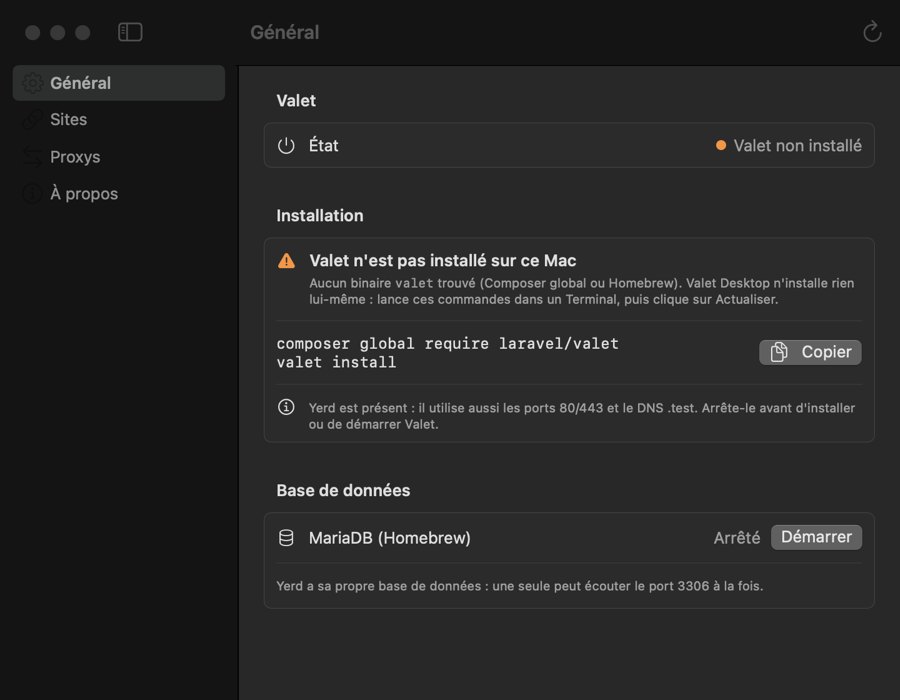
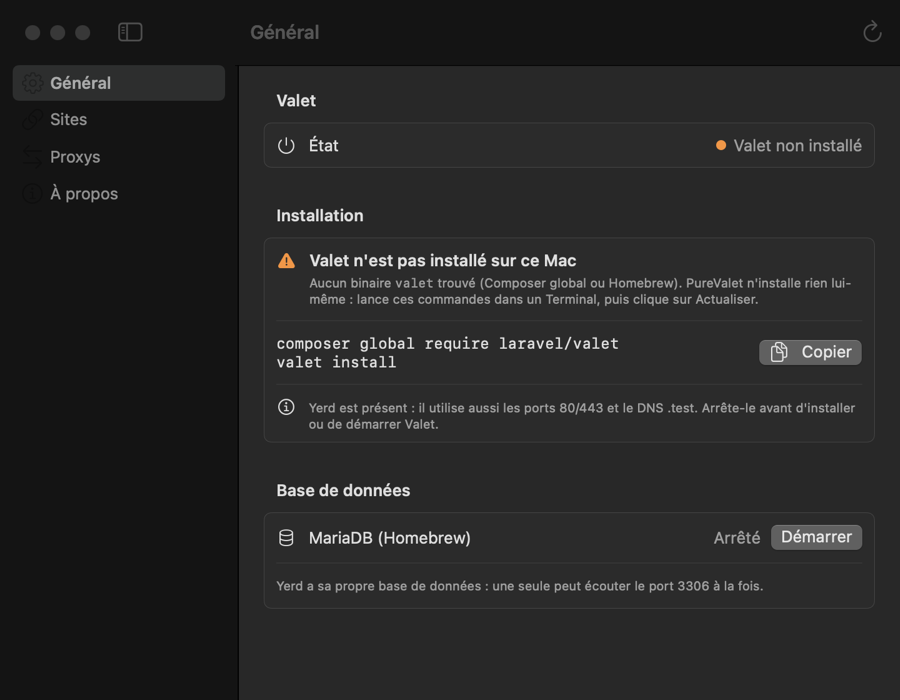
Rename the app to PureValet (0.3.0)
App bundle PureValet.app, bundle identifier dev.aubin.purevalet,
DMG PureValet-x.y.z.dmg, SwiftPM target PureValet, repository
aubinvan/purevalet. Docs and screenshot updated.

Changed region(s): [[0.3422, 0.39, 0.9644, 0.45]]

diff --git a/Sources/PureValet/SettingsWindow.swift b/Sources/PureValet/SettingsWindow.swift
@@ -56,7 +56,7 @@ final class SettingsWindowController: NSObject, NSWindowDelegate {
             backing: .buffered,
             defer: false
         )
-        window.title = "Valet Desktop"
+        window.title = "PureValet"
         window.titleVisibility = .visible
         window.toolbarStyle = .unified
         window.isReleasedWhenClosed = false
@@ -237,7 +237,7 @@ struct NotInstalledSection: View {
             Label {
                 VStack(alignment: .leading, spacing: 4) {
                     Text("Valet n'est pas installé sur ce Mac").bold()
-                    Text("Aucun binaire `valet` trouvé (Composer global ou Homebrew). Valet Desktop n'installe rien lui-même : lance ces commandes dans un Terminal, puis clique sur Actualiser.")
+                    Text("Aucun binaire `valet` trouvé (Composer global ou Homebrew). PureValet n'installe rien lui-même : lance ces commandes dans un Terminal, puis clique sur Actualiser.")
                         .settingsCaption()
                 }
             } icon: {
@@ -447,7 +447,7 @@ struct AboutPane: View {
                         .resizable()
                         .frame(width: 64, height: 64)
                     VStack(alignment: .leading, spacing: 2) {
-                        Text("Valet Desktop").font(.title2.bold())
+                        Text("PureValet").font(.title2.bold())
                         Text("Laravel Valet dans la barre de menus").settingsCaption()
                     }
                 }
@@ -461,14 +461,14 @@ struct AboutPane: View {
                     Label("Version", systemImage: "info.circle")
                 }
                 HStack {
-                    Label("Valet Desktop est open source (MIT)", systemImage: "chevron.left.forwardslash.chevron.right")
+                    Label("PureValet est open source (MIT)", systemImage: "chevron.left.forwardslash.chevron.right")
                     Spacer()
-                    Link("Voir sur GitHub", destination: URL(string: "https://github.com/aubinvan/valet-desktop")!)
+                    Link("Voir sur GitHub", destination: URL(string: "https://github.com/aubinvan/purevalet")!)
                 }
                 HStack {
                     Label("Nouvelles versions", systemImage: "arrow.down.circle")
                     Spacer()
-                    Link("Releases", destination: URL(string: "https://github.com/aubinvan/valet-desktop/releases")!)
+                    Link("Releases", destination: URL(string: "https://github.com/aubinvan/purevalet/releases")!)
                 }
             }
 

diff --git a/Sources/PureValet/Shell.swift b/Sources/PureValet/Shell.swift
@@ -32,11 +32,11 @@ enum Shell {
 
     /// Script askpass écrit dans le dossier temporaire au premier besoin.
     static let askpassPath: String = {
-        let url = URL(fileURLWithPath: NSTemporaryDirectory()).appendingPathComponent("valet-desktop-askpass.sh")
+        let url = URL(fileURLWithPath: NSTemporaryDirectory()).appendingPathComponent("purevalet-askpass.sh")
         let script = """
         #!/bin/sh
         exec /usr/bin/osascript \\
-          -e 'set r to display dialog "Valet a besoin des droits administrateur (sudo).\\n\\nMot de passe macOS :" default answer "" with hidden answer with title "Valet Desktop" with icon caution buttons {"Annuler", "OK"} default button "OK" cancel button "Annuler"' \\
+          -e 'set r to display dialog "Valet a besoin des droits administrateur (sudo).\\n\\nMot de passe macOS :" default answer "" with hidden answer with title "PureValet" with icon caution buttons {"Annuler", "OK"} default button "OK" cancel button "Annuler"' \\
           -e 'text returned of r'
         """
         try? script.write(to: url, atomically: true, encoding: .utf8)

diff --git a/Package.swift b/Package.swift
@@ -2,17 +2,17 @@
 import PackageDescription
 
 let package = Package(
-    name: "ValetDesktop",
+    name: "PureValet",
     platforms: [.macOS(.v14)],
     targets: [
         .executableTarget(
-            name: "ValetDesktop",
-            path: "Sources/ValetDesktop"
+            name: "PureValet",
+            path: "Sources/PureValet"
         ),
         .testTarget(
-            name: "ValetDesktopTests",
-            dependencies: ["ValetDesktop"],
-            path: "Tests/ValetDesktopTests"
+            name: "PureValetTests",
+            dependencies: ["PureValet"],
+            path: "Tests/PureValetTests"
         ),
     ]
 )

diff --git a/Sources/PureValet/App.swift b/Sources/PureValet/App.swift
@@ -2,11 +2,11 @@ import AppKit
 import SwiftUI
 
 @main
-struct ValetDesktopApp: App {
+struct PureValetApp: App {
     @State private var model = ValetModel()
 
     init() {
-        // `ValetDesktop --snapshot <dossier>` : capture la fenêtre de réglages (un PNG par onglet) puis quitte.
+        // `PureValet --snapshot <dossier>` : capture la fenêtre de réglages (un PNG par onglet) puis quitte.
         let args = CommandLine.arguments
         if let i = args.firstIndex(of: "--snapshot"), i + 1 < args.count {
             Snapshot.render(into: URL(fileURLWithPath: args[i + 1]))

diff --git a/Sources/PureValet/MenuContent.swift b/Sources/PureValet/MenuContent.swift
@@ -74,7 +74,7 @@ struct MenuContent: View {
 
         Divider()
 
-        Button("Quitter Valet Desktop") { NSApp.terminate(nil) }
+        Button("Quitter PureValet") { NSApp.terminate(nil) }
             .keyboardShortcut("q")
     }
 }

diff --git a/Tests/PureValetTests/ParsingTests.swift b/Tests/PureValetTests/ParsingTests.swift
@@ -1,5 +1,5 @@
 import XCTest
-@testable import ValetDesktop
+@testable import PureValet
 
 final class ParsingTests: XCTestCase {
     func testParsesValetLinksTable() {

diff --git a/README.md b/README.md
@@ -1,8 +1,8 @@
 <p align="center">
-  <img src="docs/icon.png" width="128" alt="Valet Desktop icon">
+  <img src="docs/icon.png" width="128" alt="PureValet icon">
 </p>
 
-<h1 align="center">Valet Desktop</h1>
+<h1 align="center">PureValet</h1>
 
 <p align="center">
   A tiny native macOS menu bar app to drive <a href="https://laravel.com/docs/valet">Laravel Valet</a> without the terminal.<br>
@@ -10,24 +10,24 @@
 </p>
 
 <p align="center">
-  <a href="https://github.com/aubinvan/valet-desktop/releases/latest"><img src="https://img.shields.io/github/v/release/aubinvan/valet-desktop" alt="Latest release"></a>
-  <a href="https://github.com/aubinvan/valet-desktop/actions/workflows/ci.yml"><img src="https://github.com/aubinvan/valet-desktop/actions/workflows/ci.yml/badge.svg" alt="CI"></a>
+  <a href="https://github.com/aubinvan/purevalet/releases/latest"><img src="https://img.shields.io/github/v/release/aubinvan/purevalet" alt="Latest release"></a>
+  <a href="https://github.com/aubinvan/purevalet/actions/workflows/ci.yml"><img src="https://github.com/aubinvan/purevalet/actions/workflows/ci.yml/badge.svg" alt="CI"></a>
   <a href="LICENSE"><img src="https://img.shields.io/badge/license-MIT-blue" alt="MIT License"></a>
 </p>
 
 ---
 
 <p align="center">
-  <img src="docs/screenshot-general.png" width="640" alt="Valet Desktop settings window">
+  <img src="docs/screenshot-general.png" width="640" alt="PureValet settings window">
 </p>
 
-Valet is the lightest local PHP environment on macOS (nginx + dnsmasq + php-fpm, no Docker, no VM), but it only has a CLI. Valet Desktop puts the everyday commands one click away in the menu bar, and stays out of the way:
+Valet is the lightest local PHP environment on macOS (nginx + dnsmasq + php-fpm, no Docker, no VM), but it only has a CLI. PureValet puts the everyday commands one click away in the menu bar, and stays out of the way:
 
 - **Native SwiftUI**, ~560 KB DMG, universal (Apple Silicon + Intel), no dependencies.
 - **Nothing runs in the background.** No timers, no daemon, no helper. State is read when you open the menu or the settings window, and after each action. Quit the app and nothing is left.
 - **Installs nothing.** If Valet is missing, the app says so and shows the command to run yourself.
 
-> Valet Desktop is a community project and is not affiliated with or endorsed by Laravel.
+> PureValet is a community project and is not affiliated with or endorsed by Laravel.
 
 ## Interface
 
@@ -67,14 +67,14 @@ valet install
 
 ## Install
 
-1. Download `ValetDesktop-x.y.z.dmg` from the [latest release](https://github.com/aubinvan/valet-desktop/releases/latest).
-2. Open it and drag **Valet Desktop** to **Applications**.
+1. Download `PureValet-x.y.z.dmg` from the [latest release](https://github.com/aubinvan/purevalet/releases/latest).
+2. Open it and drag **PureValet** to **Applications**.
 3. First launch: the app is ad-hoc signed but **not notarized** (no paid Apple Developer account), so macOS blocks it once. Either:
    - open it, then go to **System Settings → Privacy & Security** and click **Open Anyway**; or
    - remove the quarantine flag:
 
 ```bash
-xattr -dr com.apple.quarantine "/Applications/Valet Desktop.app"
+xattr -dr com.apple.quarantine "/Applications/PureValet.app"
 ```
 
 The **V** logo appears in the menu bar (no Dock icon); it is dimmed while Valet is stopped. Click it for the menu, **Settings…** (⌘,) for the full window, **Quit** (⌘Q) to close everything.
@@ -82,7 +82,7 @@ The **V** logo appears in the menu bar (no Dock icon); it is dimmed while Valet 
 You can check the download against the `.sha256` file attached to the release:
 
 ```bash
-shasum -a 256 -c ValetDesktop-x.y.z.dmg.sha256
+shasum -a 256 -c PureValet-x.y.z.dmg.sha256
 ```
 
 ## Administrator password (`sudo`)
@@ -96,7 +96,7 @@ To avoid the prompt entirely, Valet offers `valet trust` (adds sudoers rules for
 Requires Xcode 15.4+ or the Command Line Tools (Swift 5.10+).
 
 ```bash
-git clone https://github.com/aubinvan/valet-desktop.git && cd valet-desktop
+git clone https://github.com/aubinvan/purevalet.git && cd purevalet
 ```
 
 ```bash
@@ -104,7 +104,7 @@ git clone https://github.com/aubinvan/valet-desktop.git && cd valet-desktop
 ```
 
 ```bash
-open "build/Valet Desktop.app"
+open "build/PureValet.app"
 ```
 
 Build the DMG (output in `build/`, with its SHA-256):

diff --git a/README.fr.md b/README.fr.md
@@ -1,8 +1,8 @@
 <p align="center">
-  <img src="docs/icon.png" width="128" alt="Icône Valet Desktop">
+  <img src="docs/icon.png" width="128" alt="Icône PureValet">
 </p>
 
-<h1 align="center">Valet Desktop</h1>
+<h1 align="center">PureValet</h1>
 
 <p align="center">
   Une petite appli macOS native, dans la barre de menus, pour piloter <a href="https://laravel.com/docs/valet">Laravel Valet</a> sans terminal.<br>
@@ -12,10 +12,10 @@
 ---
 
 <p align="center">
-  <img src="docs/screenshot-general.png" width="640" alt="Fenêtre de réglages de Valet Desktop">
+  <img src="docs/screenshot-general.png" width="640" alt="Fenêtre de réglages de PureValet">
 </p>
 
-Valet est l'environnement PHP local le plus léger sur macOS (nginx + dnsmasq + php-fpm, sans Docker ni VM), mais il ne s'utilise qu'en ligne de commande. Valet Desktop met les commandes courantes à un clic, sans rien alourdir :
+Valet est l'environnement PHP local le plus léger sur macOS (nginx + dnsmasq + php-fpm, sans Docker ni VM), mais il ne s'utilise qu'en ligne de commande. PureValet met les commandes courantes à un clic, sans rien alourdir :
 
 - **SwiftUI natif**, DMG d'environ 560 Ko, universel (Apple Silicon + Intel), aucune dépendance.
 - **Rien ne tourne en fond.** Pas de minuteur, pas de démon. L'état est relu à l'ouverture du menu ou de la fenêtre, et après chaque action. Une fois l'appli quittée, il ne reste aucun processus.
@@ -61,14 +61,14 @@ valet install
 
 ## Installation
 
-1. Télécharge `ValetDesktop-x.y.z.dmg` depuis la [dernière version](https://github.com/aubinvan/valet-desktop/releases/latest).
-2. Ouvre-le et glisse **Valet Desktop** dans **Applications**.
+1. Télécharge `PureValet-x.y.z.dmg` depuis la [dernière version](https://github.com/aubinvan/purevalet/releases/latest).
+2. Ouvre-le et glisse **PureValet** dans **Applications**.
 3. Premier lancement : l'appli est signée ad hoc mais **pas notarisée** (pas de compte Apple Developer payant), macOS la bloque donc une fois. Au choix :
    - lance-la, puis **Réglages Système → Confidentialité et sécurité → Ouvrir quand même** ;
    - ou retire l'attribut de quarantaine :
 
 ```bash
-xattr -dr com.apple.quarantine "/Applications/Valet Desktop.app"
+xattr -dr com.apple.quarantine "/Applications/PureValet.app"
 ```
 
 Le logo **V** apparaît dans la barre de menus (pas dans le Dock) ; il est atténué quand Valet est arrêté. Clic pour le menu, **Réglages…** (⌘,) pour la fenêtre complète, **Quitter** (⌘Q) pour tout fermer.
@@ -76,7 +76,7 @@ Le logo **V** apparaît dans la barre de menus (pas dans le Dock) ; il est atté
 Vérifier le téléchargement avec le fichier `.sha256` joint à la version :
 
 ```bash
-shasum -a 256 -c ValetDesktop-x.y.z.dmg.sha256
+shasum -a 256 -c PureValet-x.y.z.dmg.sha256
 ```
 
 ## Mot de passe administrateur (`sudo`)
@@ -90,7 +90,7 @@ Pour ne plus avoir d'invite : `valet trust` (règles sudoers pour `valet` et `br
 Xcode 15.4+ ou les Command Line Tools (Swift 5.10+).
 
 ```bash
-git clone https://github.com/aubinvan/valet-desktop.git && cd valet-desktop
+git clone https://github.com/aubinvan/purevalet.git && cd purevalet
 ```
 
 ```bash
@@ -98,7 +98,7 @@ git clone https://github.com/aubinvan/valet-desktop.git && cd valet-desktop
 ```
 
 ```bash
-open "build/Valet Desktop.app"
+open "build/PureValet.app"
 ```
 
 Créer le DMG (dans `build/`, avec son SHA-256) :

diff --git a/CONTRIBUTING.md b/CONTRIBUTING.md
@@ -20,7 +20,7 @@ swift test           # unit tests (Valet table parsing, slug)
 Quick visual check without clicking the menu bar:
 
 ```bash
-"build/Valet Desktop.app/Contents/MacOS/ValetDesktop" --snapshot /tmp/valet-snap
+"build/PureValet.app/Contents/MacOS/PureValet" --snapshot /tmp/valet-snap
 ```
 
 This writes one PNG per settings tab (`general.png`, `sites.png`, `proxies.png`, `about.png`). The menu bar menu itself cannot be captured this way.
@@ -29,11 +29,11 @@ This writes one PNG per settings tab (`general.png`, `sites.png`, `proxies.png`,
 
 | File | Role |
 | --- | --- |
-| `Sources/ValetDesktop/App.swift` | Entry point, `MenuBarExtra` (menu style), `--snapshot` mode |
-| `Sources/ValetDesktop/MenuContent.swift` | Native menu bar menu |
-| `Sources/ValetDesktop/SettingsWindow.swift` | Settings window: sidebar + General / Sites / Proxies / About panes |
-| `Sources/ValetDesktop/Shell.swift` | Runs commands with an explicit `PATH` and the `sudo` askpass helper |
-| `Sources/ValetDesktop/ValetModel.swift` | Detection, parsing of Valet's tables, actions |
+| `Sources/PureValet/App.swift` | Entry point, `MenuBarExtra` (menu style), `--snapshot` mode |
+| `Sources/PureValet/MenuContent.swift` | Native menu bar menu |
+| `Sources/PureValet/SettingsWindow.swift` | Settings window: sidebar + General / Sites / Proxies / About panes |
+| `Sources/PureValet/Shell.swift` | Runs commands with an explicit `PATH` and the `sudo` askpass helper |
+| `Sources/PureValet/ValetModel.swift` | Detection, parsing of Valet's tables, actions |
 | `scripts/make-icon.swift` | Builds `AppIcon.icns`, the menu bar template icon and `docs/icon.png` from `Resources/source/logo.png` |
 | `scripts/make-dmg.sh` | Builds the DMG and its SHA-256 |
 
@@ -44,7 +44,7 @@ This writes one PNG per settings tab (`general.png`, `sites.png`, `proxies.png`,
 3. Commit, tag `vX.Y.Z`, push, then:
 
 ```bash
-gh release create vX.Y.Z build/ValetDesktop-X.Y.Z.dmg build/ValetDesktop-X.Y.Z.dmg.sha256 --notes-file <notes>
+gh release create vX.Y.Z build/PureValet-X.Y.Z.dmg build/PureValet-X.Y.Z.dmg.sha256 --notes-file <notes>
 ```
 
 ## Localization

diff --git a/CHANGELOG.md b/CHANGELOG.md
@@ -3,6 +3,11 @@
 All notable changes to this project are documented here.
 The format follows [Keep a Changelog](https://keepachangelog.com/en/1.1.0/) and the project uses [Semantic Versioning](https://semver.org/).
 
+## [0.3.0] - 2026-11-20
+
+### Changed
+- The app is renamed **PureValet** (formerly Valet Desktop): app bundle `PureValet.app`, bundle identifier `dev.aubin.purevalet`, DMG `PureValet-x.y.z.dmg`, repository `aubinvan/purevalet`.
+
 ## [0.2.1] - 2026-11-20
 
 ### Changed
